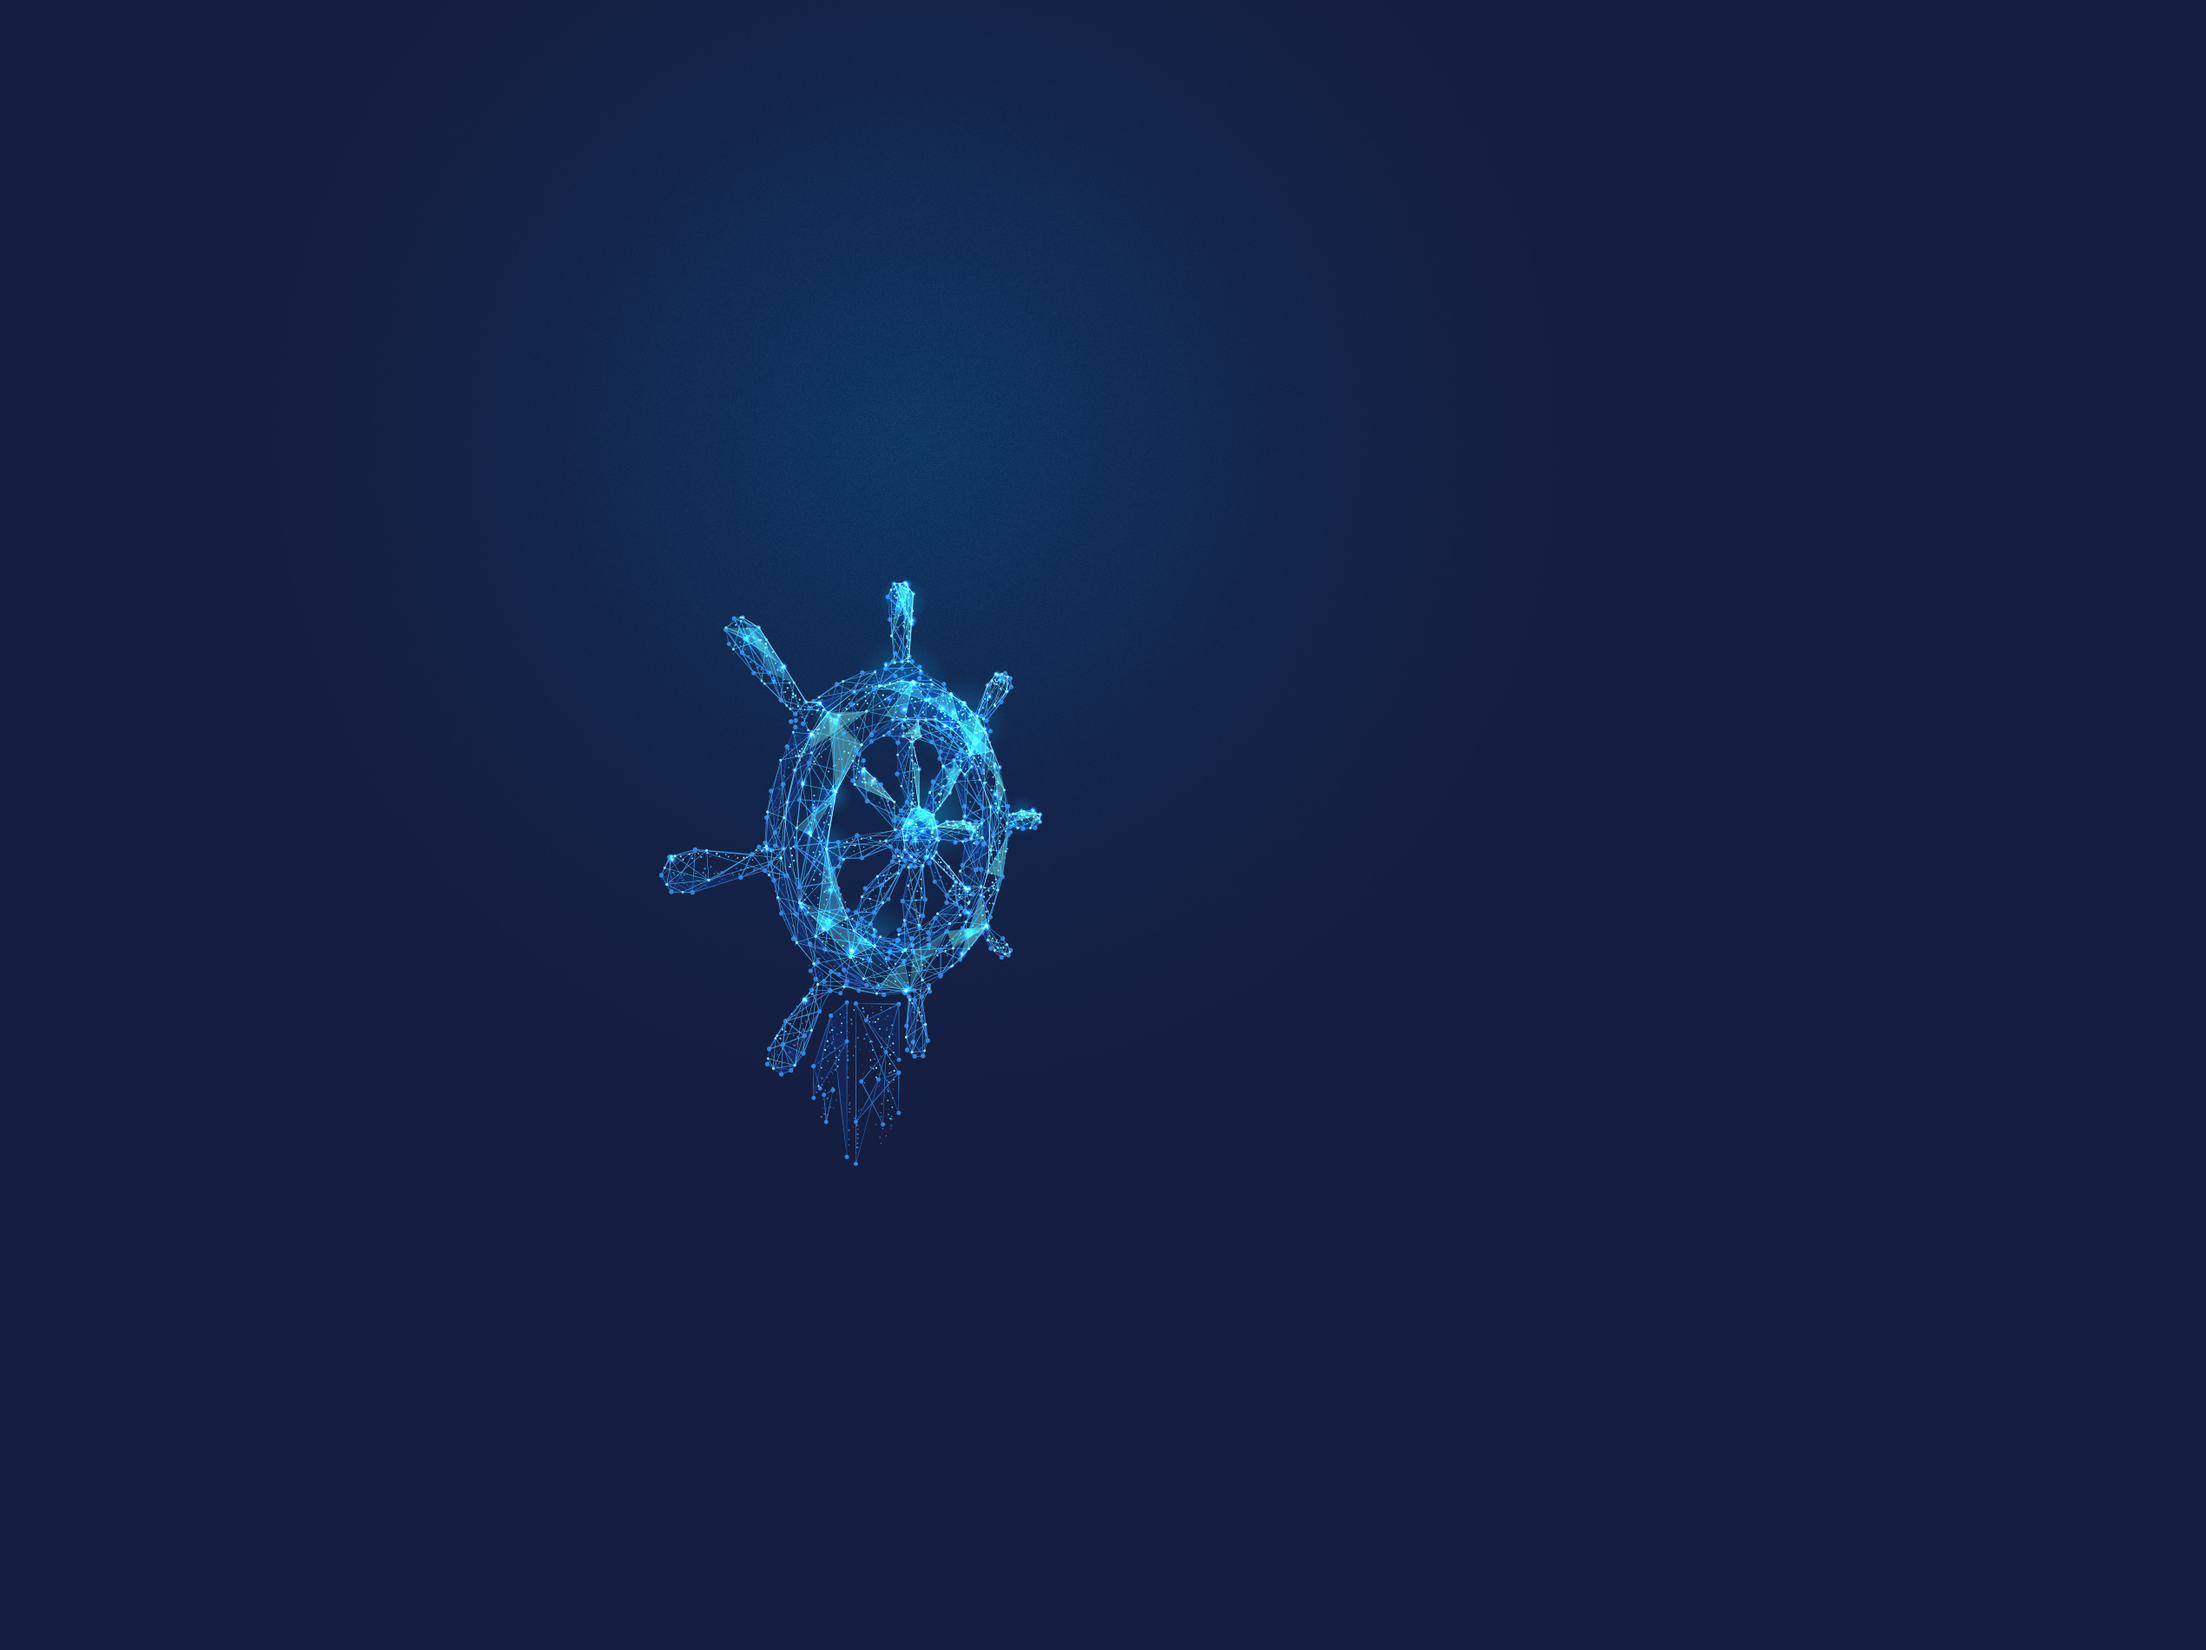
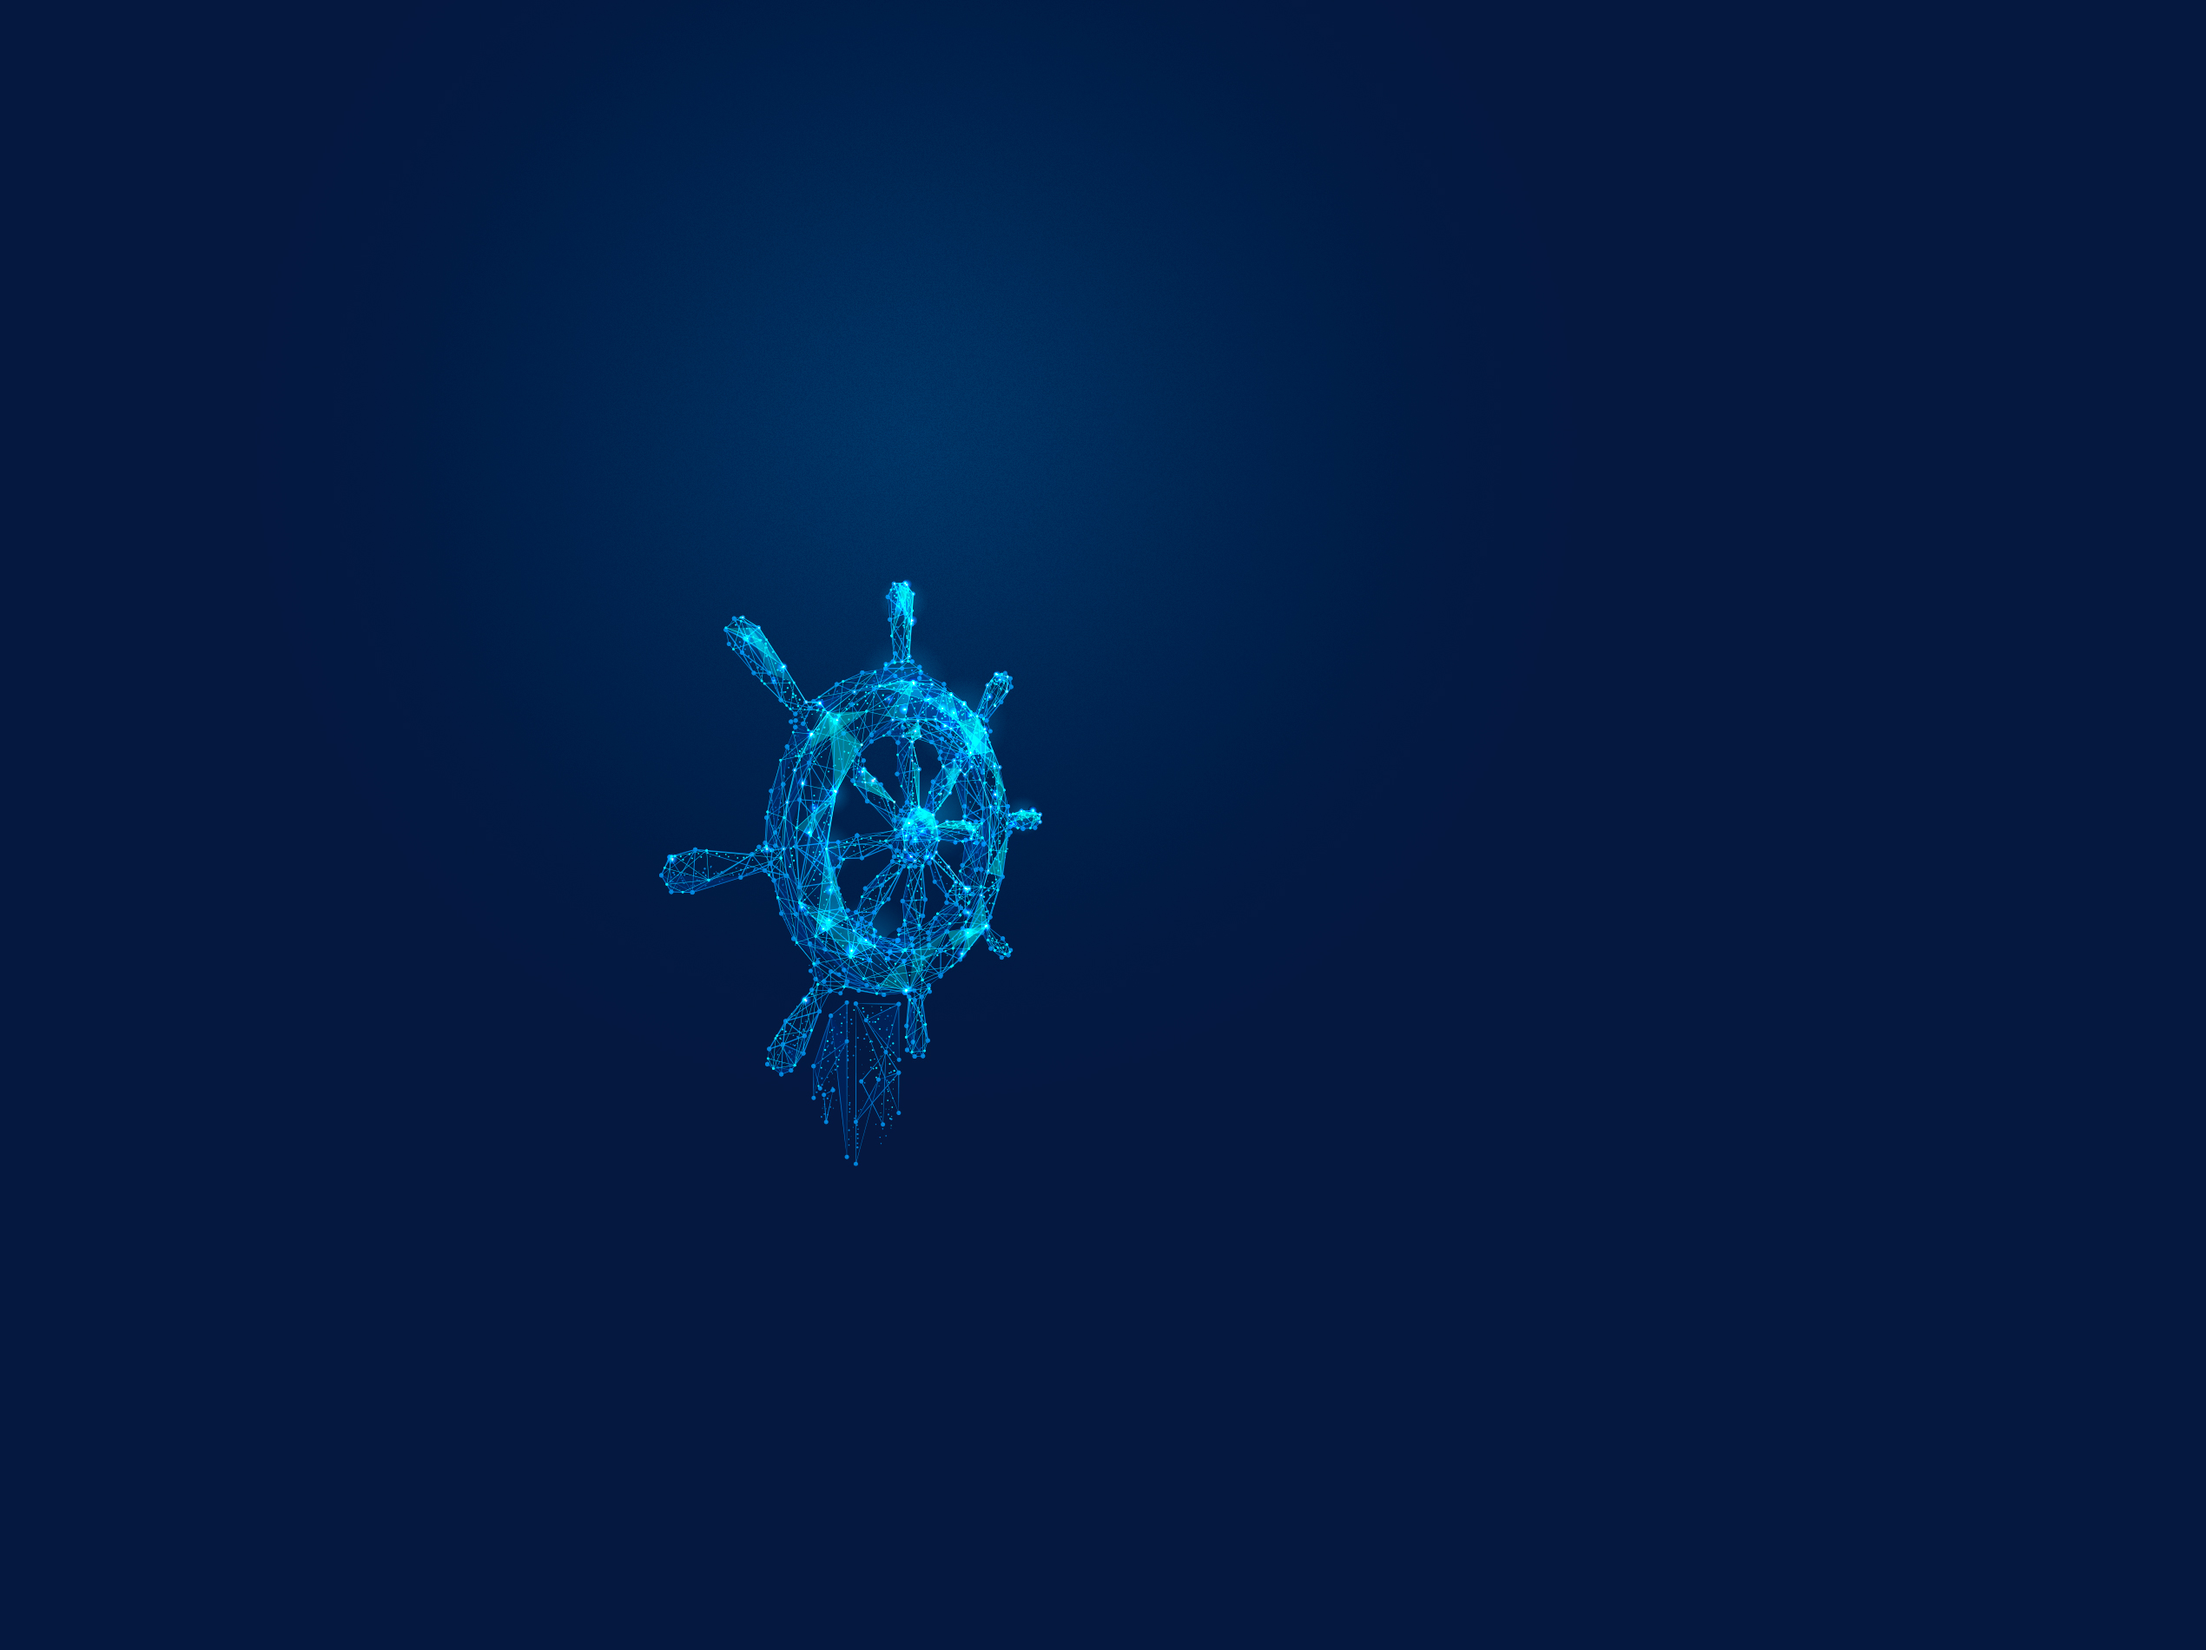
HTML, CSS and graphics revision

Changed region(s): [[0.311, 0.3416, 0.4665, 0.6832]]

diff --git a/index.html b/index.html
@@ -197,6 +197,7 @@
                 </div>
             </div>
         </section>
+
         <section id="tokenomic" class="tokenomic">
             <div class="tokenomic__sail_gsail">
                 <h1 class="tokenomic__title">TOKENOMIC</h1>
@@ -204,7 +205,11 @@
                     ecosystem
                     is a huge project. It will take time to build it but the challenge is really promising.</p>
             </div>
+            <div>
+                <img src="img/tokenomics_bg.jpg" class="tokenomic__img" alt="tokenomics SAIL and gSAIL">
+            </div>
         </section>
+
         <section id="ecosystem" class="ecosystem">
             <div class="ecosystem__sail_gsail">
                 <h1 class="ecosystem__title">SOLANASAIL ECOSYSTEM</h1>
@@ -216,14 +221,22 @@
                     Marketplace. gSAIL staking feature will be available on Phase I. The community will be able to stake
                     gSAIL and get gSAIL rewards.</p>
             </div>
+            <div>
+                <img src="img/ecosystem_bg.jpg" class="ecosystem__img" alt="ecosystem SAIL and gSAIL">
+            </div>
         </section>
+
         <section id="roadmap" class="roadmap">
             <div class="roadmap__solanasail">
                 <h1 class="roadmap__title">ROADMAP</h1>
                 <p class="roadmap__text">The Roadmap focuses on the development of the technology, operations
                     infrastructure, new partnerships, and marketing initiatives.</p>
             </div>
+            <div>
+                <img src="img/roadmap_bg.jpg" class="roadmap__img" alt="roadmap SolanaSail">
+            </div>
         </section>
+
         <section id="faq" class="faq">
             <div class="faq__solanasail">
                 <h1 class="faq__title">FAQ</h1>
@@ -249,28 +262,34 @@
                     <br> Gsai2KN28MTGcSZ1gKYFswUpFpS7EM9mvdR9c8f6iVXJ</p>
             </div>
         </section>
+
         <section id="contact" class="contact">
             <div class="contact__solanasail">
-                <h1 class="contact__title">CONTACT</h1>
-                <p class="contact__mail">
-                    <a href="mailto:contact@solanasail.com">contact@solanasail.com</a>
-                </p>
-                <h3 class="contact__subtitle">job</h3>
-                <p class="contact__mail">
-                    <a href="mailto:job@solanasail.com">job@solanasail.com</a>
-                </p>
-                <h3 class="contact__subtitle">marketing</h3>
-                <p class="contact__mail">
-                    <a href="mailto:marketing@solanasail.com">marketing@solanasail.com</a>
-                </p>
-                <h3 class="contact__subtitle">team</h3>
-                <p class="contact__mail">
-                    <a href="mailto:team@solanasail.com">team@solanasail.com</a>
-                </p>
-                <h3 class="contact__subtitle">founder</h3>
-                <p class="contact__mail">
-                    <a href="mailto:founder@solanasail.com">founder@solanasail.com</a>
-                </p>
+                <div class="contact__data">
+                    <h1 class="contact__title">CONTACT</h1>
+                    <p class="contact__mail">
+                        <a href="mailto:contact@solanasail.com">contact@solanasail.com</a>
+                    </p>
+                    <h3 class="contact__subtitle">job</h3>
+                    <p class="contact__mail">
+                        <a href="mailto:job@solanasail.com">job@solanasail.com</a>
+                    </p>
+                    <h3 class="contact__subtitle">marketing</h3>
+                    <p class="contact__mail">
+                        <a href="mailto:marketing@solanasail.com">marketing@solanasail.com</a>
+                    </p>
+                    <h3 class="contact__subtitle">team</h3>
+                    <p class="contact__mail">
+                        <a href="mailto:team@solanasail.com">team@solanasail.com</a>
+                    </p>
+                    <h3 class="contact__subtitle">founder</h3>
+                    <p class="contact__mail">
+                        <a href="mailto:founder@solanasail.com">founder@solanasail.com</a>
+                    </p>
+                </div>
+                <div>
+                    <img src="img/contact_bg.jpg" class="contact__img" alt="contact SolanaSail">
+                </div>
             </div>
         </section>
     </main>

diff --git a/css/style.css b/css/style.css
@@ -8,7 +8,7 @@
     --white: rgb(255,255,255);
     --yellow: rgb(255,182,43);
     --blue: rgb(0,158,227);
-    --darkblue: rgb(20,30,65);
+    --darkblue: rgb(5,24,64);
 }
 
 html {
@@ -30,7 +30,7 @@ body {
 }
 
 .header__animation {
-    animation: background--animation 2s 1 ease-in-out;
+    animation: background--animation 3s 1 ease-in-out;
 }
 
 @keyframes background--animation {
@@ -71,7 +71,7 @@ body {
     left: 0;
     top: 0;
     width: 100%;
-    z-index: 4;
+    z-index: 3;
 }
 
 .header__logo--image {
@@ -102,7 +102,7 @@ body {
     letter-spacing: 1px;
     text-align: left;
     line-height: 120%;
-    z-index: 4;
+    z-index: 5;
 }
 
 /* header end*/
@@ -114,7 +114,7 @@ body {
     justify-content: space-between;
     align-items: flex-end;
     flex-direction: column;
-    z-index: 2;
+    z-index: 6;
     position: fixed;
 }
 
@@ -129,8 +129,8 @@ body {
     width: 100%;
     height: 50px;
     background-color: var(--blue);
-    z-index: 3;
-    animation: navigation--animation 1s 2s cubic-bezier(0.1, 0.8, 0.8, 1) both;
+    z-index: 7;
+    animation: navigation--animation 1s 3s ease-in-out both;
 }
 
 @keyframes navigation--animation {
@@ -144,7 +144,6 @@ body {
 .navigation__menu {
     display: flex;
     list-style: none;
-    z-index: 5;
 }
 
 .menu__link {
@@ -192,7 +191,7 @@ body {
     color: var(--blue);
     border-radius: 5px;
     cursor: pointer;
-    z-index: 5;
+    z-index: 0;
     visibility: hidden;
     transition-property: background-color, color;
     transition-duration: .3s;
@@ -325,14 +324,9 @@ body {
 
 .tokenomic {
     width: 100%;
-    height: 1900px;
+    height: auto;
     left: 0;
     top: 0;
-    background-image: url("../img/tokenomics_bg.jpg");
-    background-repeat: no-repeat;
-    background-position: top;
-    background-attachment: scroll;
-    background-size: cover;
 }
 
 .tokenomic::before {
@@ -381,20 +375,23 @@ body {
     word-wrap: break-word;
 }
 
+.tokenomic__img {
+    left: 0;
+    top: 0;
+    width: 100%;
+    height: auto;
+    margin: 0 auto;
+}
+
 /* tokenomic end*/
 
 /* ecosystem start*/
 
 .ecosystem {
     width: 100%;
-    height: 1200px;
+    height: auto;
     left: 0;
     top: 0;
-    background-image: url("../img/ecosystem_bg.jpg");
-    background-repeat: no-repeat;
-    background-position: top;
-    background-attachment: scroll;
-    background-size: cover;
 }
 
 .ecosystem::before {
@@ -443,20 +440,23 @@ body {
     word-wrap: break-word;
 }
 
+.ecosystem__img {
+    left: 0;
+    top: 0;
+    width: 100%;
+    height: auto;
+    margin: 0 auto;
+}
+
 /* ecosystem end*/
 
 /* roadmap start*/
 
 .roadmap {
     width: 100%;
-    height: 900px;
+    height: auto;
     left: 0;
     top: 0;
-    background-image: url("../img/roadmap_bg.jpg");
-    background-repeat: no-repeat;
-    background-position: top;
-    background-attachment: scroll;
-    background-size: cover;
 }
 
 .roadmap::before {
@@ -503,6 +503,14 @@ body {
     width: 100%;
     margin: 0 0 20px 0;
     word-wrap: break-word;
+}
+
+.roadmap__img {
+    left: 0;
+    top: 0;
+    width: 100%;
+    height: auto;
+    margin: 0 auto;
 }
 
 /* roadmap end*/
@@ -583,14 +591,9 @@ body {
 
 .contact {
     width: 100%;
-    height: 700px;
+    height: auto;
     left: 0;
     top: 0;
-    background-image: url("../img/contact_bg.jpg");
-    background-repeat: no-repeat;
-    background-position: 50%, 50%;
-    background-attachment: scroll;
-    background-size: contain;
 }
 
 .contact::before {
@@ -604,10 +607,23 @@ body {
 
 .contact__solanasail {
     display: flex;
-    flex-direction: column;
     width: 45%;
     height: 100%;
     margin: 0 auto;
+}
+
+.contact__img {
+    left: 0;
+    top: 0;
+    width: auto;
+    height: 500px;
+}
+
+.contact__data {
+    display: flex;
+    flex-direction: column;
+    width: 50%;
+    height: 100%;
 }
 
 .contact__title {
@@ -639,7 +655,7 @@ body {
 
 .contact__mail {
     font-family: 'Lato', sans-serif;
-    font-weight: 200;
+    font-weight: 300;
     font-size: 16px;
     letter-spacing: 2px;
     text-align: left;
@@ -657,5 +673,9 @@ body {
 
 .contact__mail a:hover {
     text-decoration: underline;
-    font-weight: 300;
+    font-weight: 700;
 }
+
+/* contact end*/
+
+/* footer start*/
